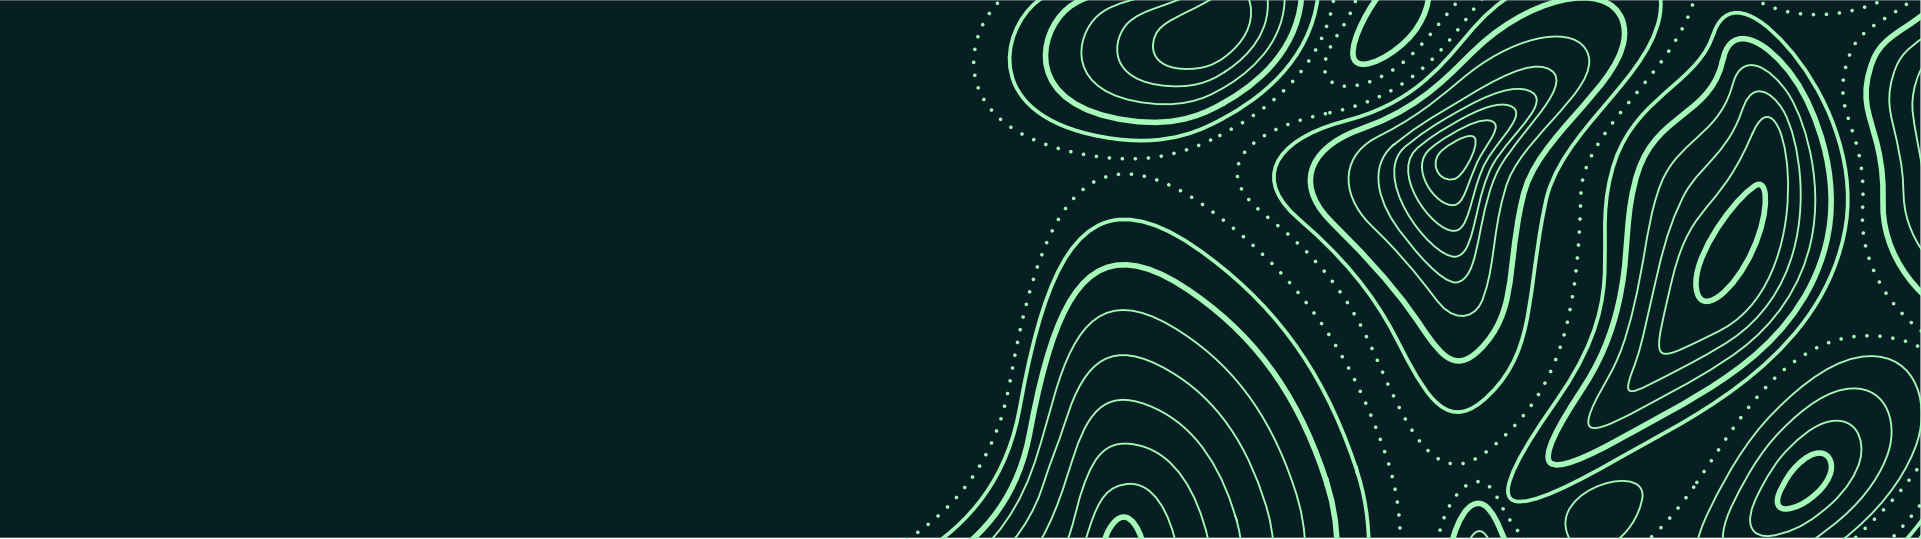
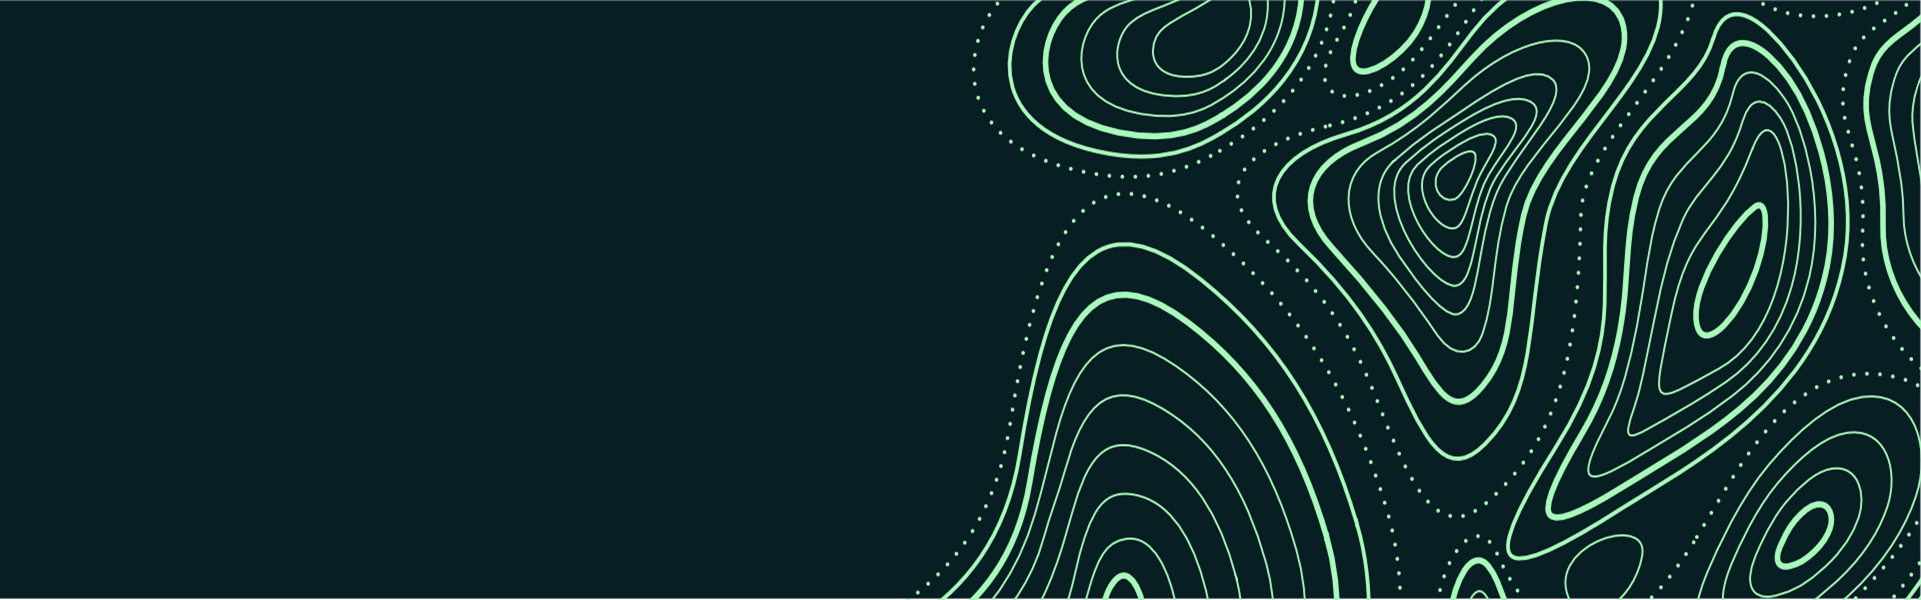
Removed Mayur's experiment
Removed Mayur's experiment

diff --git a/CarboCap_files/Carbocap.css b/CarboCap_files/Carbocap.css
@@ -3163,7 +3163,7 @@ figcaption {
 
 .cta-section {
   background-color: var(--black);
-  background-image: url('./CarboCap_files/Assets/Page3_Pattern.png');
+  background-image: url("/CarboCap_files/Assets/Page3_Pattern.png");
   background-position: 50%;
   background-size: contain;
   margin: 0 0 90px;
